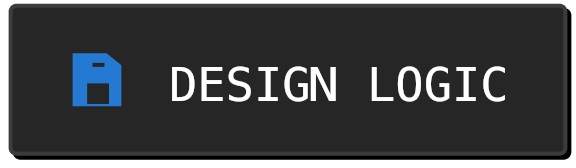
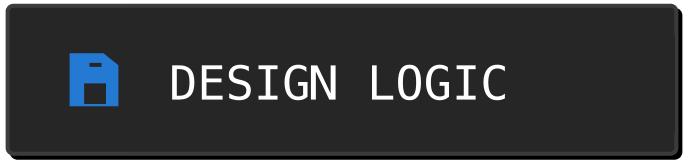
content: update design logic case and button width

diff --git a/tests/unit/kv-assets.test.ts b/tests/unit/kv-assets.test.ts
@@ -2,6 +2,14 @@ import { existsSync, readFileSync } from "node:fs";
 import { join } from "node:path";
 import { describe, expect, it } from "vitest";
 
+function readPngSize(path: string) {
+  const buffer = readFileSync(path);
+  return {
+    width: buffer.readUInt32BE(16),
+    height: buffer.readUInt32BE(20),
+  };
+}
+
 describe("generated KV assets", () => {
   const root = join(process.cwd(), "public", "kv");
   const manifestPath = join(root, "manifest.json");
@@ -44,6 +52,20 @@ describe("generated KV assets", () => {
         true,
       );
       expect(existsSync(join(root, "buttons", `${id}-active.png`))).toBe(true);
+    }
+  });
+
+  it("keeps DESIGN LOGIC the same native size as BRAND SYSTEM", () => {
+    for (const state of ["default", "active"]) {
+      const designLogic = readPngSize(
+        join(root, "buttons", `design-logic-${state}.png`),
+      );
+      const brandSystem = readPngSize(
+        join(root, "buttons", `brand-system-${state}.png`),
+      );
+
+      expect(designLogic).toEqual(brandSystem);
+      expect(designLogic).toEqual({ width: 692, height: 168 });
     }
   });
 });

diff --git a/tests/e2e/portfolio.spec.ts b/tests/e2e/portfolio.spec.ts
@@ -41,6 +41,14 @@ test("tracks the pointer and locks all five R4 project poses", async ({
     await expect(portrait).toHaveAttribute("data-target-frame", frame);
   }
 
+  const designLogicBox = await page
+    .getByRole("link", { name: "Open DESIGN LOGIC" })
+    .boundingBox();
+  const brandSystemBox = await page
+    .getByRole("link", { name: "Open BRAND SYSTEM" })
+    .boundingBox();
+  expect(designLogicBox?.width).toBeCloseTo(brandSystemBox?.width ?? 0, 1);
+
   await page.mouse.move(1179, 516);
   await expect(portrait).toHaveAttribute("data-target-frame", "174");
 });
